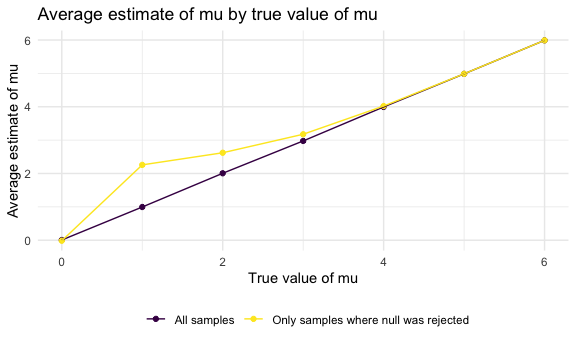
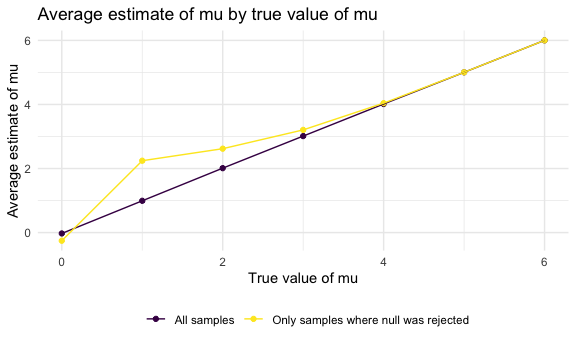
last commit -- fixing typos

diff --git a/p8105_hw5_adv2123.md b/p8105_hw5_adv2123.md
@@ -23,6 +23,10 @@ Andrea Vasquez
   - [Plot 4. Average estimate of mu by true value of
     mu](#plot-4-average-estimate-of-mu-by-true-value-of-mu)
 
+``` r
+set.seed(1236)
+```
+
 ## Problem 1.
 
 ### 1.1 Building birthday function
@@ -76,7 +80,7 @@ birthday_results_df |>
   )
 ```
 
-<img src="p8105_hw5_adv2123_files/figure-gfm/unnamed-chunk-4-1.png" alt="" width="90%" />
+<img src="p8105_hw5_adv2123_files/figure-gfm/unnamed-chunk-5-1.png" alt="" width="90%" />
 
 ``` r
 first_over_half =
@@ -99,8 +103,8 @@ prob_50 =
 The probability that at least two people share a birthday increases
 quickly and non-linearly with group size. It is close to 0 for very
 small groups, but by around group size of 23 it goes above 50%
-(estimated mean = 0.515). By a group size of 50, the estimated
-probability is 0.969, so a shared birthday is almost certain. This is
+(estimated mean = 0.509). By a group size of 50, the estimated
+probability is 0.973, so a shared birthday is almost certain. This is
 much higher than most people would guess, because the number of possible
 pairs of people grows much faster than the number of people.
 
@@ -119,10 +123,9 @@ study_df =
   mutate(files = str_remove(files, ".csv")) |> 
   separate(files, into = c("arm", "subject_id"), sep = "_") |> 
   mutate(
-    arm = case_match(
-      arm, 
-      "con" ~ "control", 
-      "exp" ~ "experimental"
+    arm = case_when(
+      arm == "con" ~ "control", 
+      arm == "exp" ~ "experimental"
     )
   ) |> 
   pivot_longer(
@@ -133,16 +136,7 @@ study_df =
   ) |> 
   mutate(week = as.numeric(week)) |> 
   select(arm, subject_id, week, observation)
-```
 
-    ## Warning: There was 1 warning in `mutate()`.
-    ## ℹ In argument: `arm = case_match(arm, "con" ~ "control", "exp" ~
-    ##   "experimental")`.
-    ## Caused by warning:
-    ## ! `case_match()` was deprecated in dplyr 1.2.0.
-    ## ℹ Please use `recode_values()` instead.
-
-``` r
 study_df
 ```
 
@@ -168,10 +162,11 @@ weeks total), and 20 subjects in total – 10 subjects per arm.
 
 ``` r
 study_df |>
-  ggplot(aes(x = week, y = observation, group = str_c(arm, subject_id), color = arm)) +
+  ggplot(aes(x = week, y = observation, 
+             group = str_c(arm, subject_id), color = arm)) +
   geom_line() +
   geom_point(alpha = .5) +
-  scale_color_viridis_d((end = 0.9)) +
+  scale_color_viridis_d(end = 0.9) +
   labs(
     title = "Observations on each subject over time",
     x = "Week",
@@ -180,7 +175,7 @@ study_df |>
   )
 ```
 
-<img src="p8105_hw5_adv2123_files/figure-gfm/unnamed-chunk-7-1.png" alt="" width="90%" />
+<img src="p8105_hw5_adv2123_files/figure-gfm/unnamed-chunk-8-1.png" alt="" width="90%" />
 
 ``` r
 arm_means_df = 
@@ -247,7 +242,7 @@ sim_t_test(mu = 0)
     ## # A tibble: 1 × 2
     ##   mu_hat p_value
     ##    <dbl>   <dbl>
-    ## 1 -0.155   0.872
+    ## 1  0.645   0.429
 
 ### 3.3 Generate 5000 datasets from the model
 
@@ -283,15 +278,15 @@ power_df |>
   )
 ```
 
-<img src="p8105_hw5_adv2123_files/figure-gfm/unnamed-chunk-11-1.png" alt="" width="90%" />
+<img src="p8105_hw5_adv2123_files/figure-gfm/unnamed-chunk-12-1.png" alt="" width="90%" />
 
 Power increases as the effect size increases. When mu = 0, the null is
-true and it is rejected 0.0506 of the time, which is close to alpha =
-0.05 as expected. Power is low for small effects (0.1958 when mu = 1),
-increases quickly for moderate effects (0.883 when mu = 3), and is
-essentially 1 for large effects (0.9998 when mu = 6). Because n and
-sigma are fixed, a larger true mean is further from the null value of 0,
-which makes the difference easier to detect and increases power.
+true and it is rejected 0.05 of the time, which is close to alpha = 0.05
+as expected. Power is low for small effects (0.19 when mu = 1),
+increases quickly for moderate effects (0.89 when mu = 3), and is
+essentially 1 for large effects (1 when mu = 6). Because n and sigma are
+fixed, a larger true mean is further from the null value of 0, which
+makes the difference easier to detect and increases power.
 
 ### Plot 4. Average estimate of mu by true value of mu
 
@@ -324,13 +319,13 @@ avg_est_df |>
   )
 ```
 
-<img src="p8105_hw5_adv2123_files/figure-gfm/unnamed-chunk-12-1.png" alt="" width="90%" />
+<img src="p8105_hw5_adv2123_files/figure-gfm/unnamed-chunk-13-1.png" alt="" width="90%" />
 
 Across all samples, the average estimate of mu is approximately equal to
-the true mu (e.g., 3 when mu = 3). Among samples where the null was
+the true mu (e.g., 3.01 when mu = 3). Among samples where the null was
 rejected, the average estimate overestimates the true mu when the effect
-size is small (e.g., 2.23 when mu = 1). When power is low, only samples
+size is small (e.g., 2.24 when mu = 1). When power is low, only samples
 with estimates far from 0 lead to rejection, meaning that significant
 findings are systematically biased away from the null. As mu increases,
 power approaches 1, so nearly all samples are rejected, and the average
-estimate gets close to the true value (e.g., 6.02 when mu = 6).
+estimate gets close to the true value (e.g., 6 when mu = 6).
